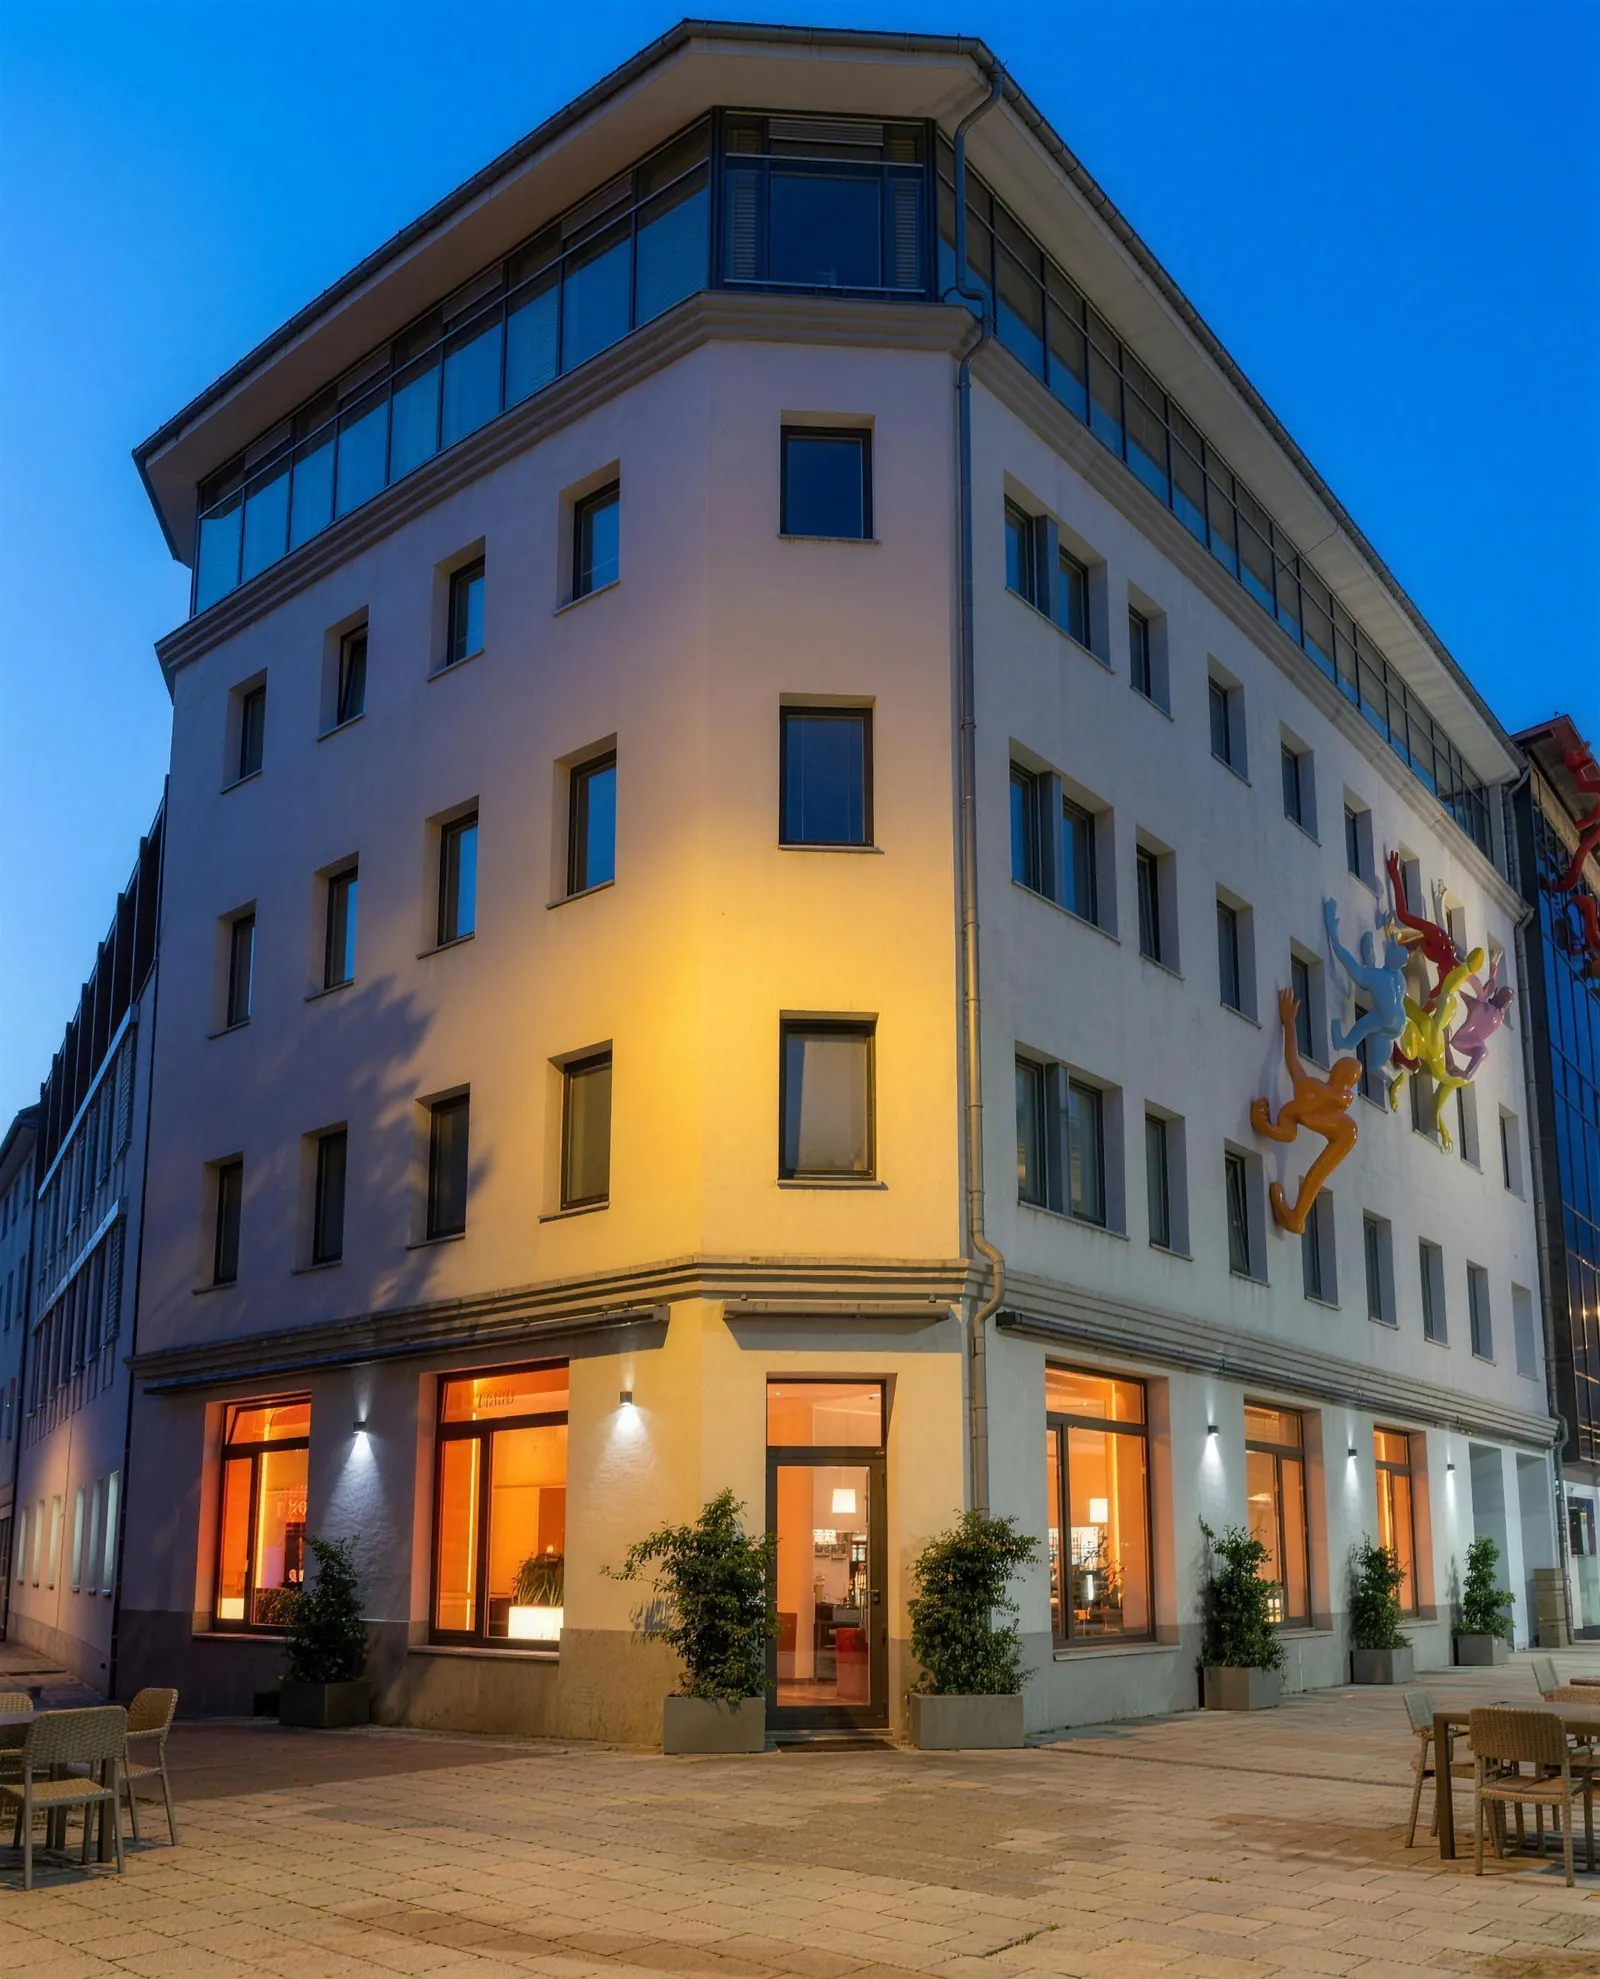
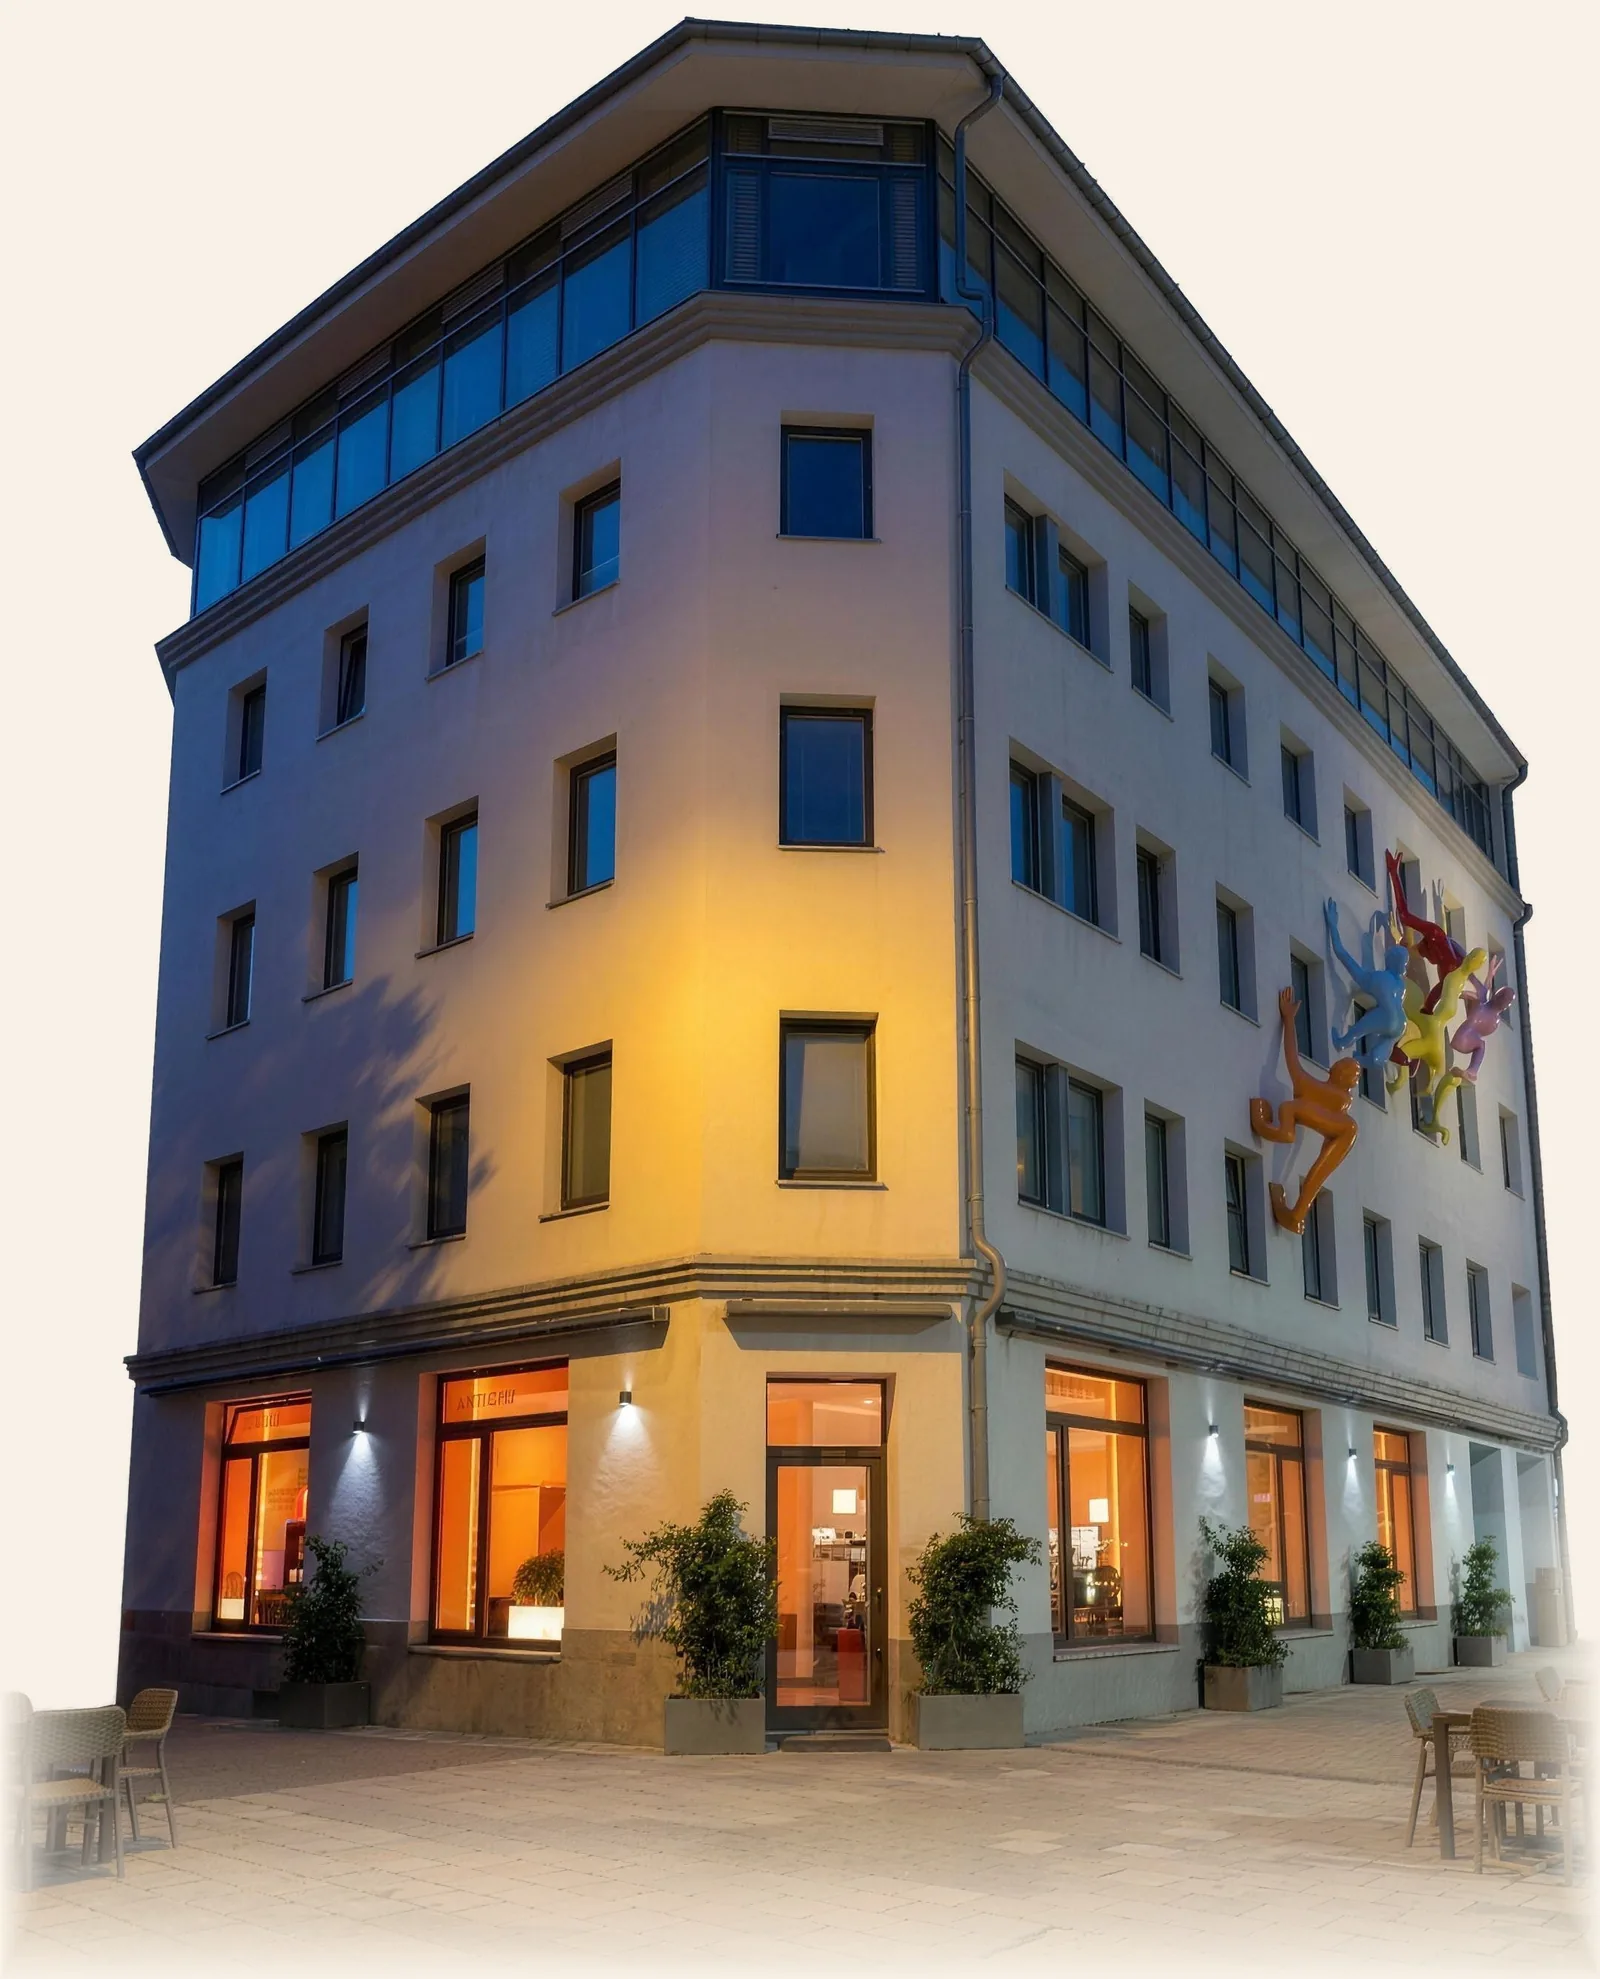
Über uns: Eingangsfoto ohne Himmel, in den Seitenhintergrund eingebettet

diff --git a/ueber-uns.html b/ueber-uns.html
@@ -23,7 +23,7 @@
 <link rel="preload" href="assets/fonts/outfit-latin.woff2" as="font" type="font/woff2" crossorigin>
 <!-- страницы сайта готовятся заранее, при наведении на ссылку (Chrome) — переход почти мгновенный -->
 <script type="speculationrules">{"prerender":[{"where":{"selector_matches":"a[href$='.html'], a[href*='.html#'], a[href*='.html?']"},"eagerness":"moderate"}],"prefetch":[{"where":{"selector_matches":"a[href$='.html'], a[href*='.html#'], a[href*='.html?']"},"eagerness":"eager"}]}</script>
-<link rel="stylesheet" href="css/style.css?v=28">
+<link rel="stylesheet" href="css/style.css?v=29">
 <script src="assets/js/lenis.min.js" defer></script>
 <script src="js/site.js?v=34" defer></script>
 </head>
@@ -40,7 +40,7 @@
   <!-- TODO: историю дополнить реальными фактами (год открытия и т. п.) -->
   <section class="container">
     <div class="story">
-      <div class="story__img reveal"><img src="assets/img/eingang.webp?v=1" srcset="assets/img/eingang-800.webp?v=1 800w, assets/img/eingang.webp?v=1 1600w" sizes="(max-width: 900px) 100vw, 50vw" alt="Haupteingang des lamondi an der Bahnhofstraße am Abend" style="object-position:50% 70%"></div>
+      <div class="story__img story__img--free reveal"><img src="assets/img/eingang.webp?v=2" srcset="assets/img/eingang-800.webp?v=2 800w, assets/img/eingang.webp?v=2 1600w" sizes="(max-width: 900px) 100vw, 50vw" alt="Haupteingang des lamondi an der Bahnhofstraße am Abend"></div>
       <div class="reveal">
         <p class="text-xl"><span data-l="de">Ein Familienrestaurant seit 2000 — und ein Ort zum Ankommen, ganz wörtlich.</span><span data-l="en">A family restaurant since 2000 — and a place to arrive, quite literally.</span></p>
         <p><span data-l="de">Das lamondi liegt direkt gegenüber dem Hauptbahnhof Bayreuth. Wer aus dem Zug steigt, ist in einer Minute bei uns; wer in Bayreuth wohnt, kommt für die Mittagspause, nach der Arbeit oder für einen langen Abend.</span><span data-l="en">lamondi sits right across from Bayreuth's main station. Step off the train and you're with us in a minute; locals drop by for lunch, after work or for a long evening.</span></p>

diff --git a/speisekarte.html b/speisekarte.html
@@ -23,7 +23,7 @@
 <link rel="preload" href="assets/fonts/outfit-latin.woff2" as="font" type="font/woff2" crossorigin>
 <!-- страницы сайта готовятся заранее, при наведении на ссылку (Chrome) — переход почти мгновенный -->
 <script type="speculationrules">{"prerender":[{"where":{"selector_matches":"a[href$='.html'], a[href*='.html#'], a[href*='.html?']"},"eagerness":"moderate"}],"prefetch":[{"where":{"selector_matches":"a[href$='.html'], a[href*='.html#'], a[href*='.html?']"},"eagerness":"eager"}]}</script>
-<link rel="stylesheet" href="css/style.css?v=28">
+<link rel="stylesheet" href="css/style.css?v=29">
 <script src="js/menu-data.js?v=7" defer></script>
 <script src="assets/js/lenis.min.js" defer></script>
 <script src="js/site.js?v=34" defer></script>

diff --git a/datenschutz.html b/datenschutz.html
@@ -23,7 +23,7 @@
 <link rel="preload" href="assets/fonts/outfit-latin.woff2" as="font" type="font/woff2" crossorigin>
 <!-- страницы сайта готовятся заранее, при наведении на ссылку (Chrome) — переход почти мгновенный -->
 <script type="speculationrules">{"prerender":[{"where":{"selector_matches":"a[href$='.html'], a[href*='.html#'], a[href*='.html?']"},"eagerness":"moderate"}],"prefetch":[{"where":{"selector_matches":"a[href$='.html'], a[href*='.html#'], a[href*='.html?']"},"eagerness":"eager"}]}</script>
-<link rel="stylesheet" href="css/style.css?v=28">
+<link rel="stylesheet" href="css/style.css?v=29">
 <script src="assets/js/lenis.min.js" defer></script>
 <script src="js/site.js?v=34" defer></script>
 </head>

diff --git a/impressum.html b/impressum.html
@@ -23,7 +23,7 @@
 <link rel="preload" href="assets/fonts/outfit-latin.woff2" as="font" type="font/woff2" crossorigin>
 <!-- страницы сайта готовятся заранее, при наведении на ссылку (Chrome) — переход почти мгновенный -->
 <script type="speculationrules">{"prerender":[{"where":{"selector_matches":"a[href$='.html'], a[href*='.html#'], a[href*='.html?']"},"eagerness":"moderate"}],"prefetch":[{"where":{"selector_matches":"a[href$='.html'], a[href*='.html#'], a[href*='.html?']"},"eagerness":"eager"}]}</script>
-<link rel="stylesheet" href="css/style.css?v=28">
+<link rel="stylesheet" href="css/style.css?v=29">
 <script src="assets/js/lenis.min.js" defer></script>
 <script src="js/site.js?v=34" defer></script>
 </head>

diff --git a/index.html b/index.html
@@ -23,7 +23,7 @@
 <link rel="preload" href="assets/fonts/outfit-latin.woff2" as="font" type="font/woff2" crossorigin>
 <!-- страницы сайта готовятся заранее, при наведении на ссылку (Chrome) — переход почти мгновенный -->
 <script type="speculationrules">{"prerender":[{"where":{"selector_matches":"a[href$='.html'], a[href*='.html#'], a[href*='.html?']"},"eagerness":"moderate"}],"prefetch":[{"where":{"selector_matches":"a[href$='.html'], a[href*='.html#'], a[href*='.html?']"},"eagerness":"eager"}]}</script>
-<link rel="stylesheet" href="css/style.css?v=28">
+<link rel="stylesheet" href="css/style.css?v=29">
 <script src="assets/js/lenis.min.js" defer></script>
 <script src="js/site.js?v=34" defer></script>
 </head>

diff --git a/reservierung.html b/reservierung.html
@@ -23,7 +23,7 @@
 <link rel="preload" href="assets/fonts/outfit-latin.woff2" as="font" type="font/woff2" crossorigin>
 <!-- страницы сайта готовятся заранее, при наведении на ссылку (Chrome) — переход почти мгновенный -->
 <script type="speculationrules">{"prerender":[{"where":{"selector_matches":"a[href$='.html'], a[href*='.html#'], a[href*='.html?']"},"eagerness":"moderate"}],"prefetch":[{"where":{"selector_matches":"a[href$='.html'], a[href*='.html#'], a[href*='.html?']"},"eagerness":"eager"}]}</script>
-<link rel="stylesheet" href="css/style.css?v=28">
+<link rel="stylesheet" href="css/style.css?v=29">
 <script src="assets/js/lenis.min.js" defer></script>
 <script src="js/site.js?v=34" defer></script>
 </head>

diff --git a/css/style.css b/css/style.css
@@ -442,6 +442,7 @@ html[lang="en"] [data-l="de"] { display: none !important; }
 @media (min-width: 900px) { .story { grid-template-columns: 1fr 1fr; gap: 80px; } }
 .story__img { border: 1px solid var(--line); aspect-ratio: 4 / 5; overflow: hidden; }
 .story__img img { width: 100%; height: 100%; object-fit: cover; }
+.story__img--free { border: 0; } /* здание без неба — растворено в фоне */
 .values { display: grid; grid-template-columns: 1fr; border: 1px solid var(--line); margin-top: 28px; }
 .values > div { padding: 32px 28px; }
 .values > div + div { border-top: 1px solid var(--line); }

diff --git a/_gen/onbg.py b/_gen/onbg.py
@@ -1,0 +1,24 @@
+"""Здание на кремовой заливке → точный фон сайта: заливка (связанная с краями) = #F8F1E7, низ растворяется в фон."""
+import sys
+import numpy as np
+from PIL import Image, ImageFilter
+from scipy import ndimage
+src, out = sys.argv[1], sys.argv[2]
+fade = float(sys.argv[3]) if len(sys.argv) > 3 else 0.14   # доля высоты снизу под растворение
+BG = np.array([0xF8, 0xF1, 0xE7], float)
+im = np.asarray(Image.open(src).convert("RGB")).astype(float)
+d = np.abs(im - im[8:40, 8:40].reshape(-1, 3).mean(0)).max(-1)
+near = d < 22
+lab, _ = ndimage.label(near)
+edge = set(np.unique(np.r_[lab[0], lab[:, 0], lab[:, -1]])) - {0}
+m = np.isin(lab, list(edge))
+m = ndimage.binary_opening(m, iterations=1)
+a = np.asarray(Image.fromarray((m * 255).astype(np.uint8)).filter(ImageFilter.GaussianBlur(1.2))).astype(float) / 255
+h = im.shape[0]; y = np.arange(h)[:, None] / h
+g = np.clip((y - (1 - fade)) / fade, 0, 1) ** 1.6          # плавный переход к фону внизу
+w = im.shape[1]; x = np.arange(w)[None, :] / w
+side = np.clip(1 - np.minimum(x, 1 - x) / 0.09, 0, 1) ** 1.4 * np.clip((y - 0.7) / 0.08, 0, 1)  # бока тротуара
+a = np.maximum(np.maximum(a, g), side)[..., None]
+res = im * (1 - a) + BG * a
+Image.fromarray(res.clip(0, 255).astype(np.uint8)).save(out, quality=92)
+print("bg share", m.mean())

diff --git a/_gen/sky.py b/_gen/sky.py
@@ -1,0 +1,22 @@
+"""Убрать небо с фото здания: синие пиксели, связанные с верхним краем → фон сайта."""
+import sys
+import numpy as np
+from PIL import Image, ImageFilter
+from scipy import ndimage
+src, out = sys.argv[1], sys.argv[2]
+BG = np.array([0xF8, 0xF1, 0xE7], float)
+im = np.asarray(Image.open(src).convert("RGB")).astype(float)
+r, g, b = im[..., 0], im[..., 1], im[..., 2]
+blue = (b > r + 25) & (b > g + 5) & (b > 90)
+lab, _ = ndimage.label(blue)
+top = set(np.unique(lab[0])) - {0}
+sky = np.isin(lab, list(top))
+sky = ndimage.binary_closing(sky, iterations=2)
+sky = ndimage.binary_fill_holes(sky | ~ndimage.binary_dilation(~sky, iterations=0)) if False else sky
+# мягкий край
+a = Image.fromarray((sky * 255).astype(np.uint8)).filter(ImageFilter.GaussianBlur(1.6))
+a = np.asarray(a).astype(float)[..., None] / 255
+# синий ореол по краю: подтянуть к нейтрали
+res = im * (1 - a) + BG * a
+Image.fromarray(res.clip(0, 255).astype(np.uint8)).save(out, quality=92)
+print("sky share", sky.mean())
